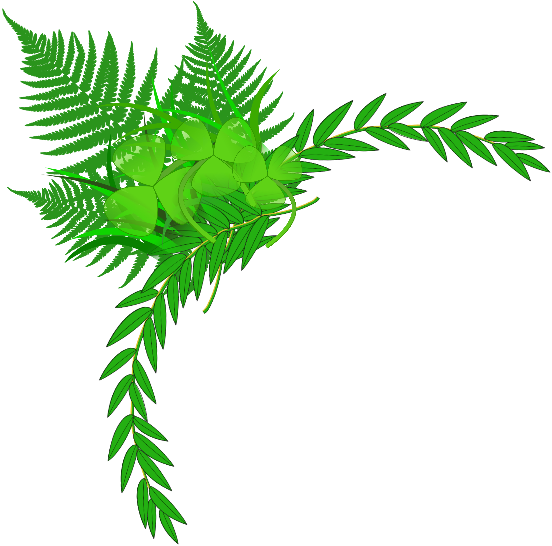
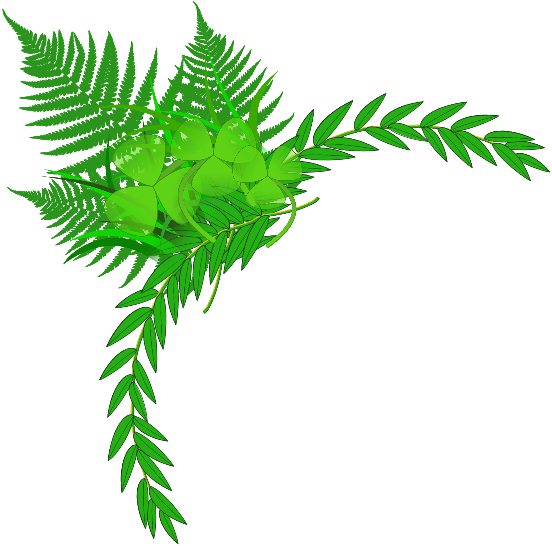
自然绿主题窗口点缀的小草改为长在窗框上：按每丛草实际的根部位置对齐，草根扎进框线里、根部渐隐藏在框线下，脚下垫一小片苔藓色晕影，不再像没有根茎直接贴在窗口上

diff --git a/dstools/qt/ornaments.py b/dstools/qt/ornaments.py
@@ -54,13 +54,13 @@ _SPRITES: dict[str, tuple[Sprite, ...]] = {
     ),
     "mint": (
         # 自然绿：从左上角沿上边框向右、沿左边框向下各一条枝叶带，后面是叶子朝外的绿枝，中间探出蕨叶，
-        # 最前面贴边一溜小草一丛丛自然生长、疏密随机，越远越矮越稀越淡
-        Sprite("mint_spray_right.png", 0, 0, 259, -11.5, 65),
-        Sprite("mint_spray_down.png", 0, 0, -15, 217.5, 445),
+        # 最前面贴边一溜小草一丛丛自然生长、疏密随机，草根扎进框线、脚下垫一小片苔藓晕影，越远越矮越稀越淡
+        Sprite("mint_spray_right.png", 0, 0, 257, -11.5, 65),
+        Sprite("mint_spray_down.png", 0, 0, -15, 195, 408),
         # 左上主角：几片蕨叶从拐角放射，两根绿枝顺着上边、左边伸出，拐角上三叶草和一丛小草，后创建的小窗叠在两条带上面
         Sprite("mint_cluster.png", 0, 0, 18, 19, 182),
         # 右上呼应：沿上边往左、沿右边往下各一条短些的枝叶带，拐角几片蕨叶和一棵三叶草
-        Sprite("mint_spray_corner.png", 1, 0, -105.5, 92.5, 311),
+        Sprite("mint_spray_corner.png", 1, 0, -109.5, 89.5, 305),
         # 右下角：一片草丛压在拐角，小草沿下边缘往左越来越矮越稀，蕨叶贴着右边往上伸，三叶草藏在草里；左下角留白
         Sprite("mint_spray_bottom.png", 1, 1, -213, -57.5, 121),
     ),
